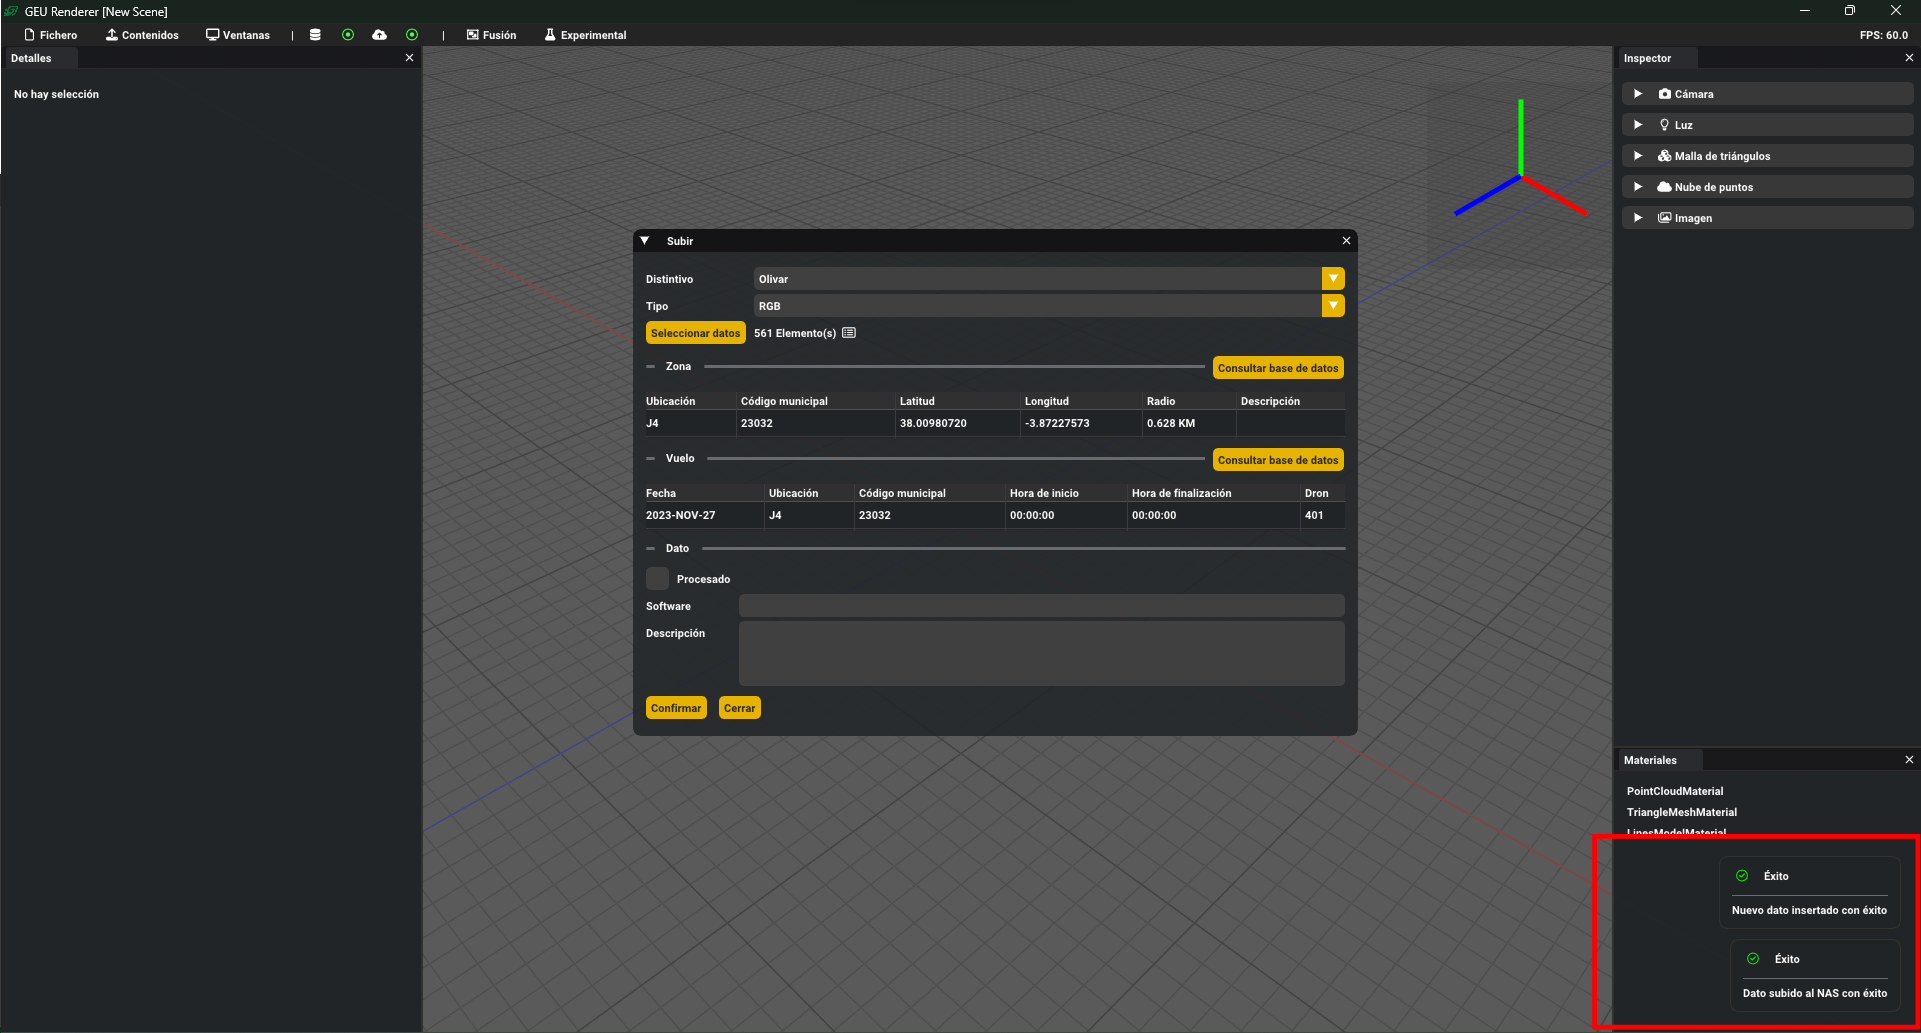
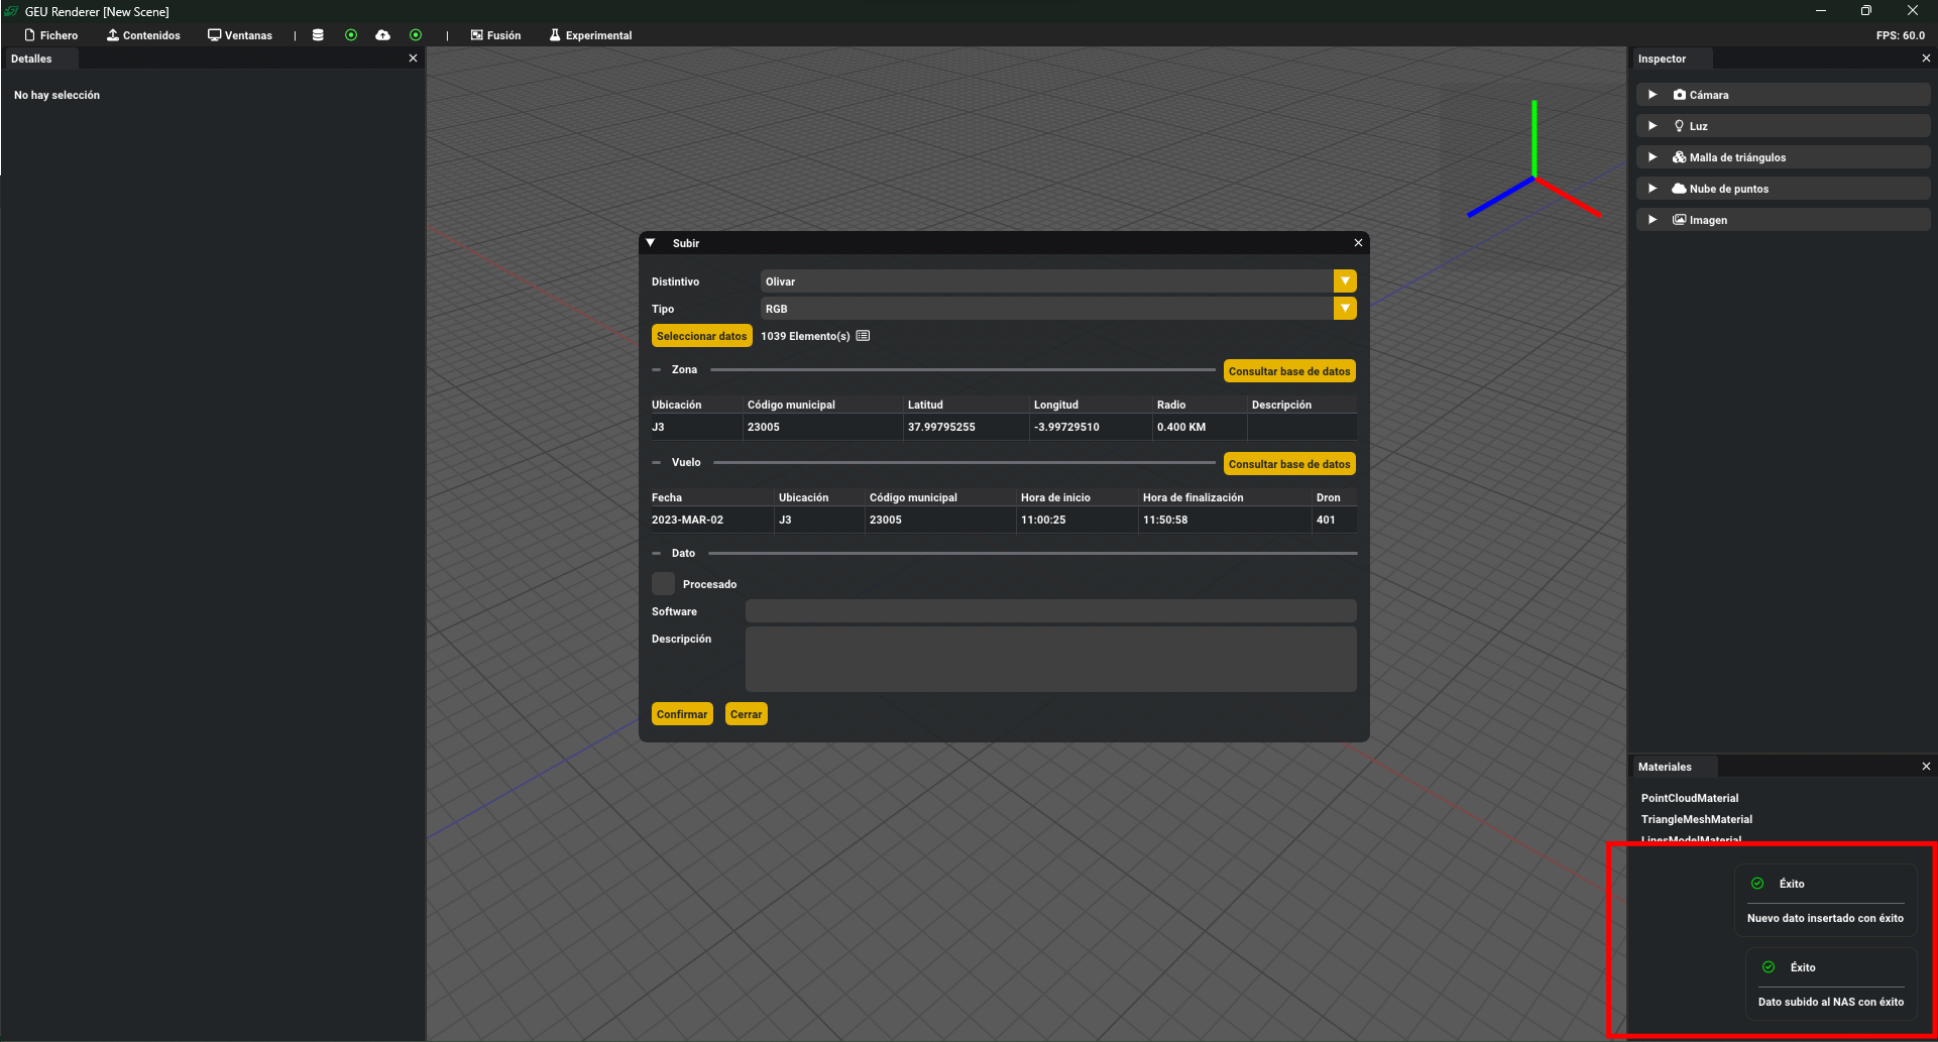
Ejemplo subida de datos

diff --git a/Casos de uso y ejemplos/Subida-datos-nas.md b/Casos de uso y ejemplos/Subida-datos-nas.md
@@ -8,6 +8,8 @@ nav_order: 2
 - [Subida de datos a los servidores](#subida-de-datos-a-los-servidores)
   - [Conexión a los servidores](#conexión-a-los-servidores)
   - [Formulario de subida](#formulario-de-subida)
+  - [Dato existente](#dato-existente)
+  - [Dato no existente](#dato-no-existente)
 - [Resultados](#resultados)
 
 
@@ -23,31 +25,54 @@ Para empezar, debe establecerse la conexión a los servidores remotos. Por defec
 
 Después de iniciar sesión con sus credenciales de usuario o las credenciales por defecto de GEU, puede acceder a la funcionalidad sobre la base de datos para subir la información.
 
-![Menú de acceso a funcionalidad de la base de datos](../Assets/Images/remotes_download.png)
+![Menú de acceso a funcionalidad de la base de datos](../Assets/Images/remotes_upload.png)
 
 ## Formulario de subida
 
-En este ejemplo, se realizará la subida de imágenes RGB, pero el mismo método puede extrapolarse al resto de tipos de dato. En la siguiente imagen se etiqueta cada paso a seguir al rellenar el formulario con los metadatos necesarios para la subida, detallando a continuación cada una de estas secciones:
+En este ejemplo, se realizará la subida de imágenes RGB descargadas del tutorial [Descarga y visualización de datos](/Casos%20de%20uso%20y%20ejemplos/Descarga-y-visualizacion-datos) (correspondientes a la finca **J3**), pero el mismo método puede extrapolarse al resto de tipos de datos.
 
-1. **Tipo y distintivo** de los datos: Cada dato se categoriza según su tipo (*LiDAR*, *SfM*, *RGB*, *Multiespectral*, *Termica*, *Hiperespectral*, *Fusion* y *Adicional*), además de un distintivo que representa el contenido de los mismos (por ejemplo, *Olivar* o *Bosque*). Mediante el botón **Seleccionar** podrá, mediante un explorador de ficheros del sistema, seleccionar aquellos ficheros que desee subir; según el tipo de dato, la selección se limitará a unos formatos concretos.
-2. **Zona y Vuelo**: Todo dato presente en la base de datos debe quedar enlazado al **Vuelo** en que se tomó el dato o los datos que lo originan, al igual que la **Zona** correspondiente al lugar concreto. Ambos valores pueden asignarse mediante una consulta a la base de datos, seleccionando aquellas entradas correspondientes a los datos a subir.
-3. **Metadatos opcionales**: Campos opcionales con información adicional sobre el dato. *Procesado* indica si el dato ya ha sido tratado previamente; *Software* lista la herramienta utilizada para procesar el dato; *Descripción* muestra información añadida relevante al dato (por ejemplo, número de puntos en nubes de puntos).
+{: .highlight }
+> En el caso de los ficheros **hiperespectrales**, debe agrupar los ficheros en una carpeta y seleccionarla para subir todo su contenido; no es posible seleccionar estos ficheros individualmente.
 
-![](../Assets/Images/upload_form.png)
+En la siguiente imagen se etiqueta cada paso a seguir al rellenar el formulario con los metadatos necesarios para la subida, detallando a continuación cada una de estas secciones:
 
-El resto de campos necesarios, los de Zona y Vuelo, deben rellenarse mediante una consulta a la base de datos, mediante la cual puede buscarse con precisión la información deseada. La consulta para Vuelo tomará la Zona seleccionada como filtro, limitando los resultados a aquellos correspondientes a dicha zona. Finalmente, se exponen los datos opcionales adicionales:
+1. **Distintivo y tipo**: Cada dato incluye los campos de *distintivo* y *tipo* que permiten diferenciar rápidamente el contenido del mismo (por ejemplo, *Olivar* o *Bosque* y *LiDAR* o *Multiespectral*, respectivamente). Dependiendo del tipo de dato elegido, podrá seleccionar únicamente los ficheros con formatos compatibles.
 
-- **Procesado**: ¿El dato se ha procesado o es un dato crudo?
-- **Software**: Herramienta empleada en el procesado del dato para su obtención.
-- **Descripción**: Información adicional sobre el dato.
+<ins>Para este ejemplo</ins>, establecemos el *distintivo* en ***Olivar*** y el *tipo* en ***RGB***. A continuación, seleccionamos los ficheros deseados tras hacer clic en el botón **Seleccionar datos**. Este botón abrirá una ventana emergente con un navegador de ficheros del sistema, permitiendo la selección de cuantos ficheros sea necesario.
 
-Con esto, utilizando el botón de confirmación dará comienzo la subida del dato o datos a ambos servidores, mostrando una serie de notificaciones indicativas del estado de la subida en la esquina inferior derecha de la ventana.
+2. **Zona y Vuelo**: Todo dato presente en la base de datos debe quedar enlazado al **Vuelo** en que se tomó el dato o los datos que lo originan, al igual que la **Zona** correspondiente al lugar concreto.
 
-![](../Assets/Images/upload_progress.png)
-![](../Assets/Images/upload_success.png)
+<ins>Para este ejemplo</ins>, hacemos clic en el botón de consulta, apareciendo una ventana emergente con los filtros al hacer la búsqueda. Para la *Zona*, buscamos y seleccionamos **J3**, mientras que en *Vuelo* asignamos aquel cuya fecha equivale al día 2 de marzo de 2023 (*2023-MAR-02*).
+
+3. **Metadatos opcionales**: Campos opcionales con información adicional y de interés general sobre el dato. *Procesado* indica si el dato ya ha sido tratado previamente; *Software* lista la herramienta utilizada para procesar el dato; *Descripción* muestra información añadida relevante al dato (por ejemplo, número de puntos en nubes de puntos).
+
+<ins>Para este ejemplo</ins>, no se asignan valores a estos campos.
+
+![Formulario de subida de un nuevo dato](../Assets/Images/upload_form.png)
+
+Por último, utilice el botón **Confirmar** para iniciar el proceso de subida de los datos a los servidores remotos.
+
+## Dato existente
+
+Antes de realizar la subida, GEU comprobará previamente la existencia del nuevo dato en los servidores, tratando de evitar duplicidad de la información. En caso positivo, se le informará en pantalla de esta situación y los datos no serán subidos.
+
+![Mensaje informativo sobre la duplicidad de datos](../Assets/Images/upload_duplicated.png)
+
+<ins>En este ejemplo</ins>, será esta la situación que experimente; si ha alcanzado sin problemas este punto del tutorial, GEU está funcionando correctamente y puede realizar la subida de otros datos distintos al aquí propuesto.
+
+## Dato no existente
+
+Cuando se realice la subida de un dato no presente en la base de datos, aparecerá una notificación con una barra de progreso sobre el estado de la subida. Al finalizar, se incorpora el nuevo dato y aparecerá otra notificación indicando el estado de la operación.
+
+![Progreso de subida de un nuevo dato](../Assets/Images/upload_progress.png)
+
+![Confirmación de subida de un nuevo dato](../Assets/Images/upload_success.png)
 
 # Resultados
 
-Al finalizar, si no se encontró ningún problema, los datos quedan almacenados en el servidor NAS y su entrada organizada en la base de datos (la información de la siguiente imagen representan datos de prueba dedicado específicamente a este ejemplo, visualizados desde el sistema de ficheros del servidor NAS, pueden diferir del contenido actual de los servidores).
+Al finalizar, si no se encontró ningún problema, los datos quedan almacenados en el servidor NAS y su entrada organizada en la base de datos. 
 
-![](../Assets/Images/upload_nassuccess.png)
+{: .highlight }
+>La información de la siguiente imagen representan datos de prueba dedicado específicamente a este ejemplo, visualizados desde el sistema de ficheros del servidor NAS, pueden diferir del contenido actual de los servidores.
+
+![Ficheros subidos en el directorio del servidor NAS](../Assets/Images/upload_nassuccess.png)
